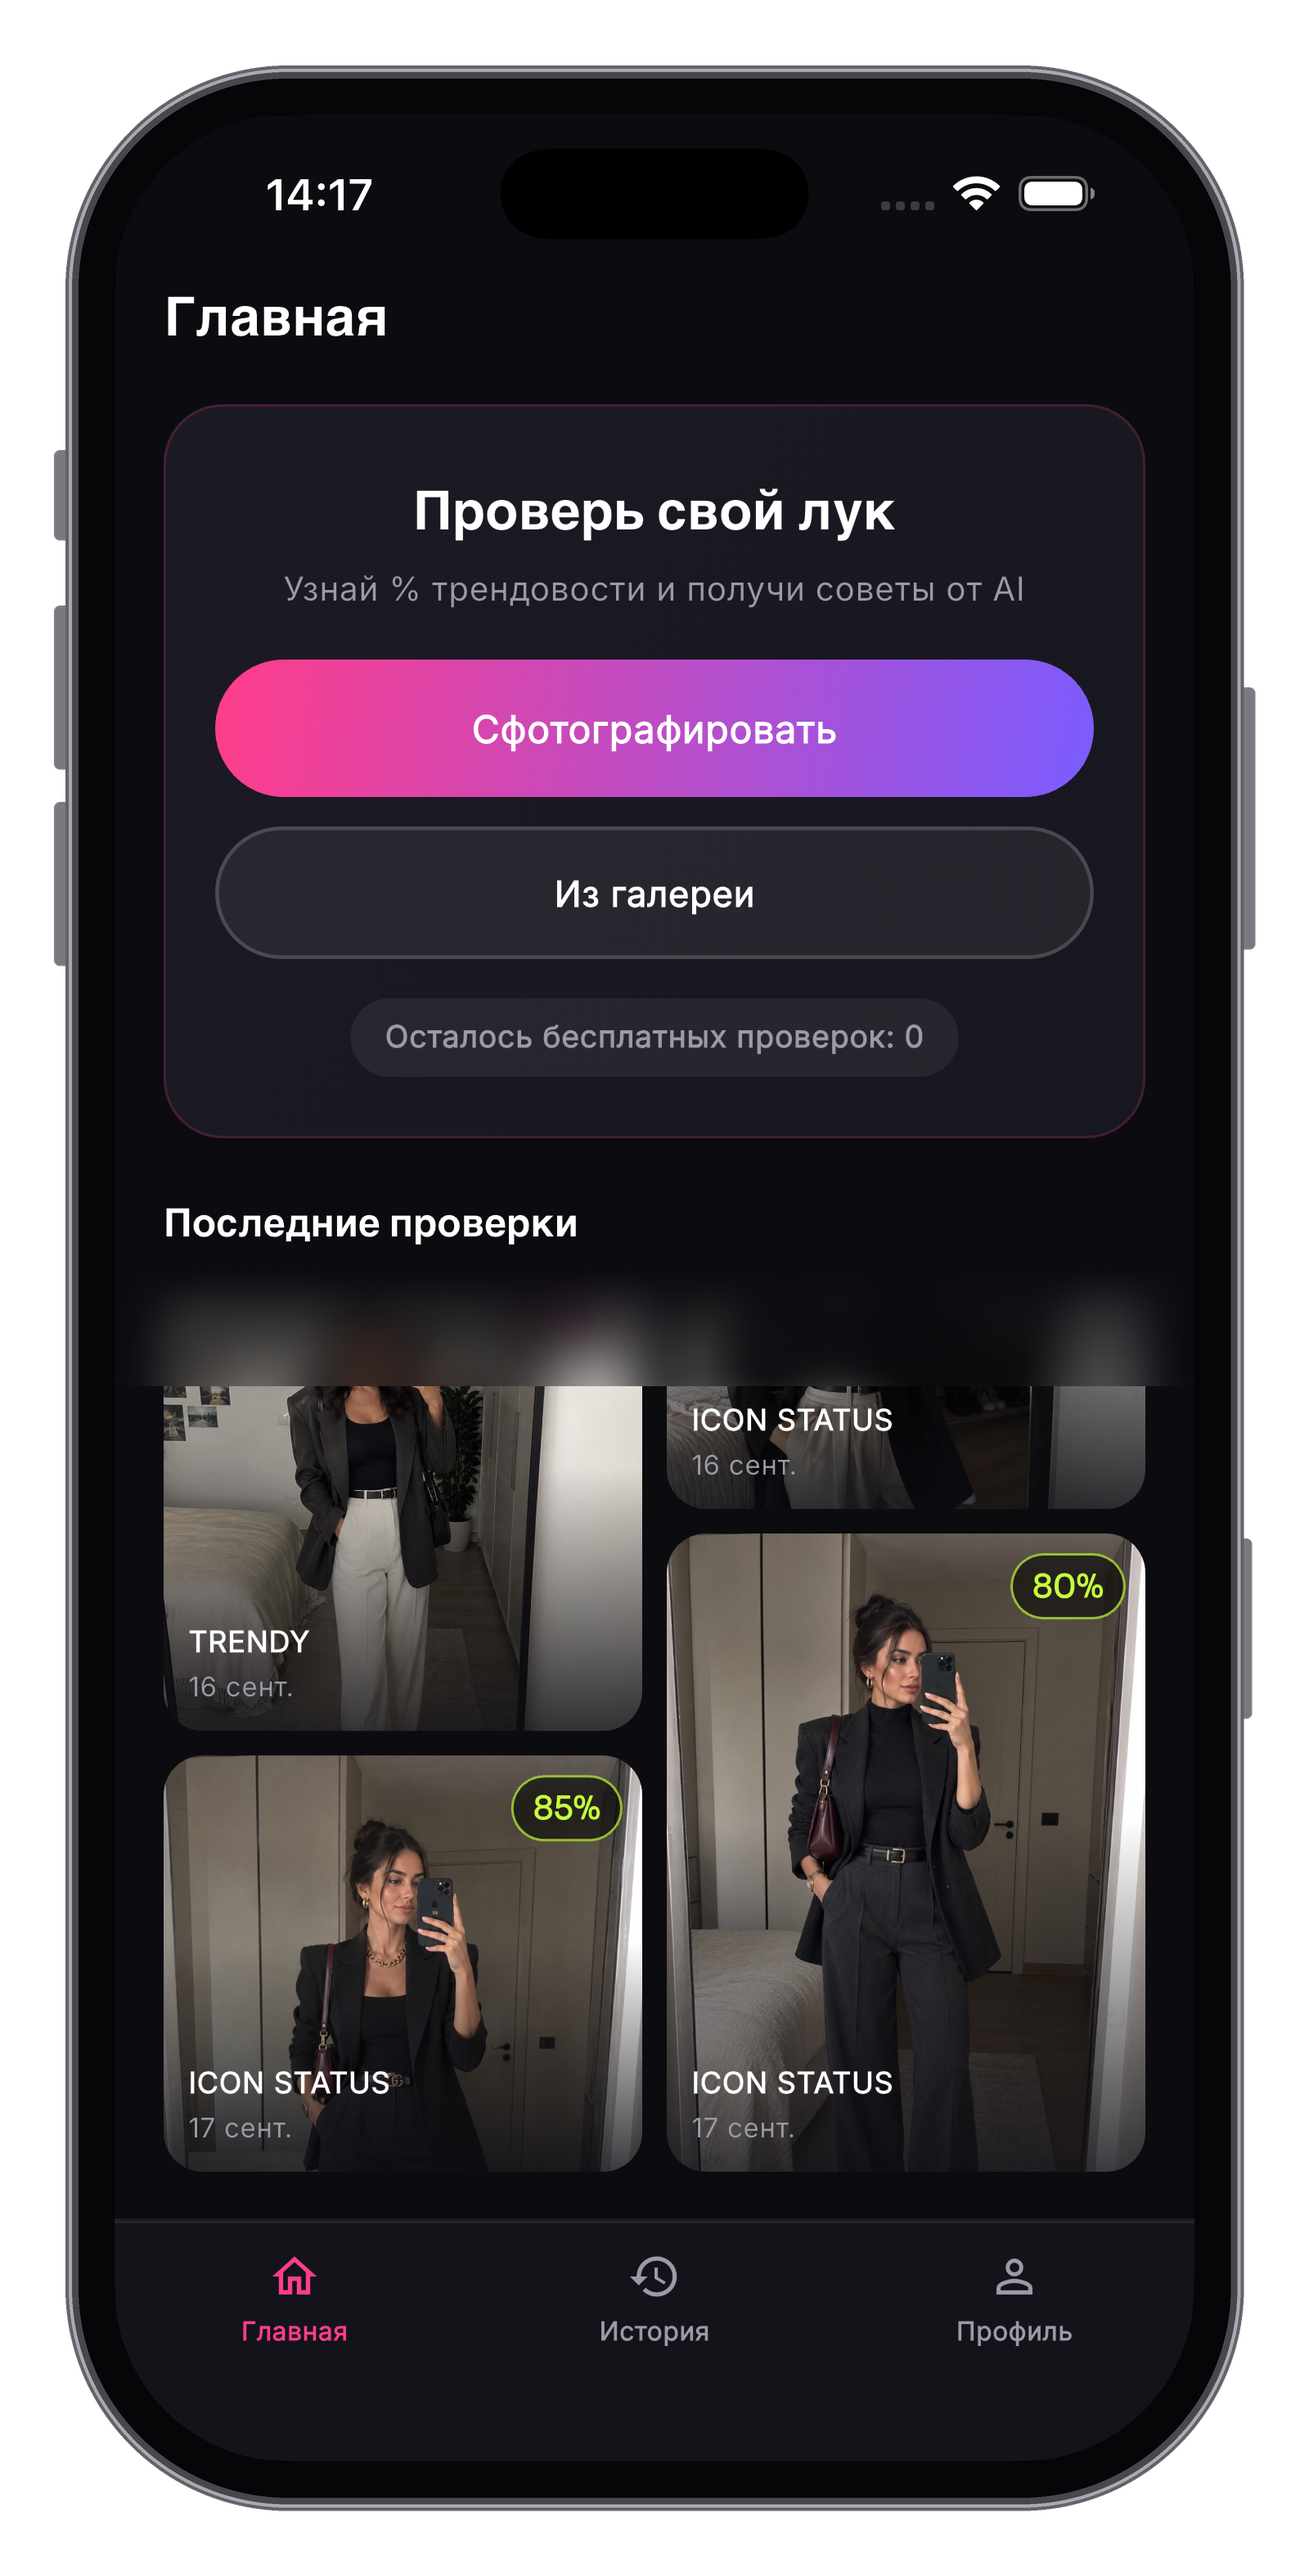
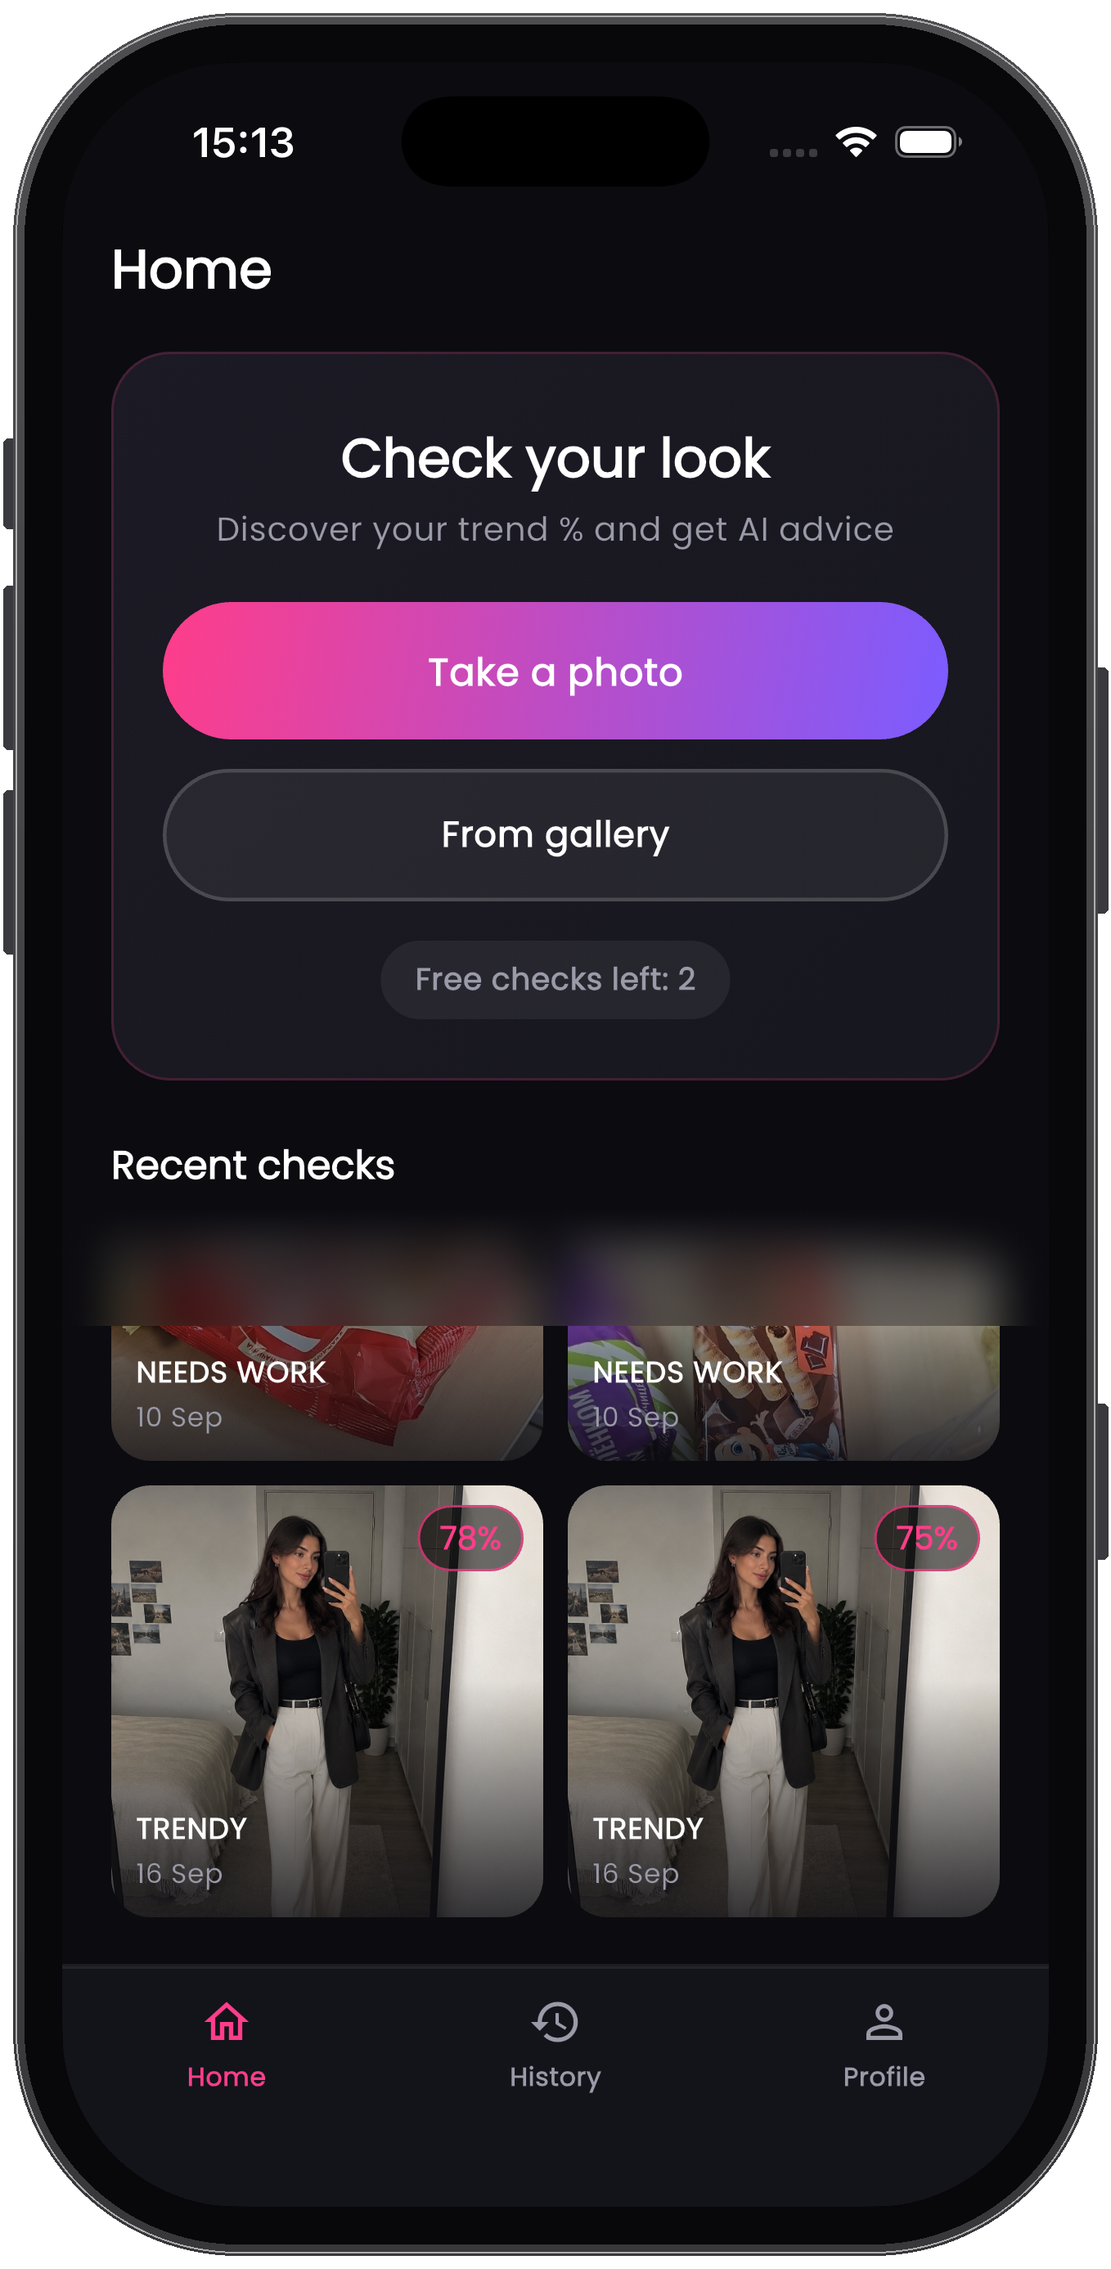
Use English app screenshots on the website
Replace the Russian screenshots with English ones: result (80% Icon Status)
in the hero, gallery and OG image; camera, 75% Trendy result, tips, share
and home screens in their sections. Drop History and Paywall from the
gallery (no English versions yet) and update TODO.md.

Claude-Session: https://claude.ai/code/session_016W7nkR3w3n8h9h5s8Z1kai

diff --git a/website/src/pages/og.png.ts b/website/src/pages/og.png.ts
@@ -31,11 +31,10 @@ const img = (src: string, width: number, height: number, style: Record<string, u
 
 export const GET: APIRoute = async () => {
   const phoneW = 296;
-  const phoneH = Math.round((phoneW * 3148) / 1600);
-  const phone = await sharp(path.join(process.cwd(), "src/assets/screens/result.png"))
-    .resize(phoneW * 2)
-    .png()
-    .toBuffer();
+  const screen = sharp(path.join(process.cwd(), "src/assets/screens/result.png"));
+  const meta = await screen.metadata();
+  const phoneH = Math.round((phoneW * (meta.height ?? 3148)) / (meta.width ?? 1600));
+  const phone = await screen.resize(phoneW * 2).png().toBuffer();
   const icon = await appIconPng(112);
 
   const tree = h(

diff --git a/website/TODO.md b/website/TODO.md
@@ -35,12 +35,12 @@ After editing, run `npm run build` (or push to deploy).
 
 | Item | File | Why |
 |---|---|---|
-| **Story card "top tip"**: copy says the 9:16 card has "your photo, score and top tip", and the coded mockup shows a "TOP TIP" box | `src/pages/index.astro` (section `#stories`) | The latest app commit (`478c3d4`, "drop tip from share card") removed the tip from the real share card. Either restore it in the app or change the copy to "your photo and score" and delete the TOP TIP box from the mockup. |
+| **Story card "top tip"**: copy says the 9:16 card has "your photo, score and top tip", and the coded mockup shows a "TOP TIP" box | `src/pages/index.astro` (section `#stories`) | The share screenshot (`share.png`, taken Sep 16) still shows the tip, but the later app commit `478c3d4` (Oct 2, "drop tip from share card") removed it. Either restore it in the app, or change the copy to "your photo and score", delete the TOP TIP box from the mockup and retake `share.png`. |
 | `trendylook.app` text on the story-card mockup | `src/pages/index.astro` (section `#stories`) | Hard-coded as specified. Change it if the final domain is different. |
 | Story-card photo | `src/assets/photos/story-look.jpg` | Copied from the app's onboarding photo (`assets/onboarding/look_1.jpg`). Replace it if you'd rather use another photo. Confirm you have the rights to use it on the web. |
-| **Paywall screenshot shows "12,000+ checks today"** | `src/assets/screens/paywall.png` | That line is the app's `paywallSocialProof` string. The site itself invents no numbers, but the screenshot shows one. If the number isn't real yet, retake the screenshot or crop that line. |
 | Prices $4.99/week and $29.99/6 months | `src/pages/index.astro` (`plans`) | Must match App Store Connect / Play Console. The small print already says prices may vary by region. |
-| Screenshots | `src/assets/screens/*.png` | Russian UI, as agreed. To swap one, replace the PNG with the same filename (transparent PNG, iPhone frame, ~1600x3148). |
+| Screenshots | `src/assets/screens/*.png` | English UI: `result.png` (hero, gallery, OG image), `snap.png` (How it works), `result-trendy.png` (Score scale), `tips.png` (What the AI checks), `share.png` (Made for Stories), `home.png` (gallery). There are no English History or Paywall screens yet, so the gallery shows 5 screens. To swap one, replace the PNG with the same filename (transparent PNG in an iPhone frame). |
+| Hero numbers: the floating ring and the faint background number say **85%**, the hero screenshot shows **80%** | `src/pages/index.astro` (hero) | 85% is from the brief. Change `value={85}` on the hero `ScoreRing` (and the background "85%") if you want them to match the screenshot. |
 | Document naming: the site says **"Terms of Use"**, the document heading says **"Terms of Service"** | `src/components/Footer.astro`, `src/content/legal/terms.md` (frontmatter `title`) | Pick one name everywhere (see LEGAL_REVIEW.md). |
 
 ## 5. Deploy settings (one-time)
